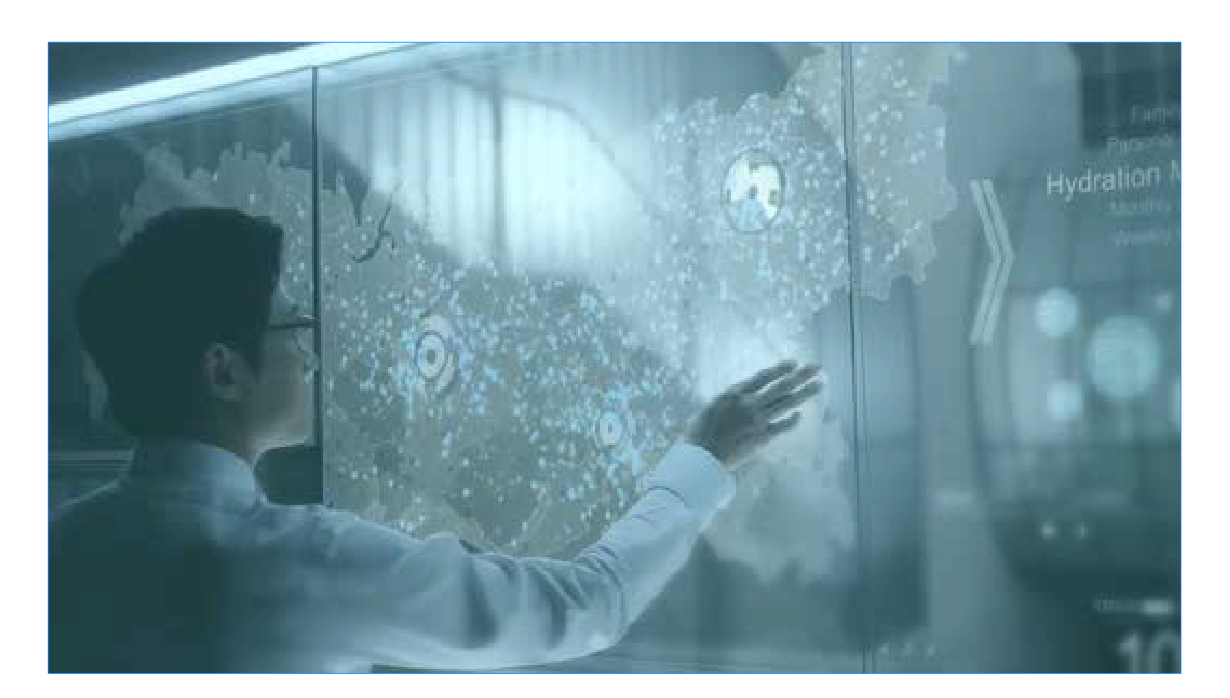
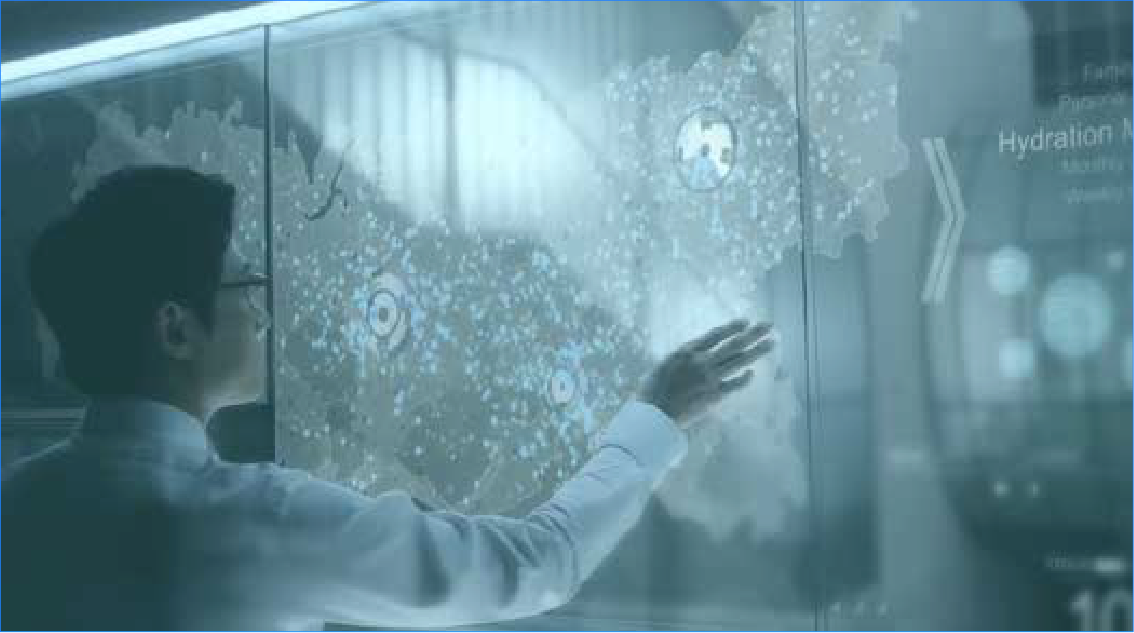
수정

diff --git a/pages/static_page/Responses-to-Climate-Change.vue b/pages/static_page/Responses-to-Climate-Change.vue
@@ -203,19 +203,19 @@
                             </b-tr></b-thead>
                             <b-tbody>
                                 <b-tr>
-                                    <b-td class="text-left">Scope1</b-td><b-td class="text-left" rowspan="4">tCO<sub>2</sub>e</b-td><b-td>630</b-td><b-td>676</b-td><b-td>640</b-td><b-td>672</b-td><b-td>-</b-td>
+                                    <b-td class="text-left">Scope1</b-td><b-td class="text-left" rowspan="4">tCO<sub>2</sub>e</b-td><b-td>630</b-td><b-td>676</b-td><b-td>640</b-td><b-td>710</b-td><b-td>-</b-td>
                                 </b-tr>
                                 <b-tr>
-                                    <b-td class="text-left">Scope2</b-td><b-td>5,162</b-td><b-td>5,349</b-td><b-td>5,224</b-td><b-td>5,485</b-td><b-td>-</b-td>
+                                    <b-td class="text-left">Scope2</b-td><b-td>5,162</b-td><b-td>5,349</b-td><b-td>5,224</b-td><b-td>5,616</b-td><b-td>-</b-td>
                                 </b-tr>
                                 <b-tr>
                                     <b-td class="text-left">Scope3</b-td><b-td>71</b-td><b-td>71</b-td><b-td>70</b-td><b-td>71</b-td><b-td>-</b-td>
                                 </b-tr> 
                                 <b-tr>
-                                    <b-td class="text-left">Total</b-td><b-td>5,863</b-td><b-td>6,096</b-td><b-td>5,935</b-td><b-td>6,157</b-td><b-td>298</b-td>
+                                    <b-td class="text-left">Total</b-td><b-td>5,863</b-td><b-td>6,096</b-td><b-td>5,935</b-td><b-td>6,397</b-td><b-td>2,982</b-td>
                                 </b-tr>
                                 <b-tr>
-                                    <b-td class="text-left">원단위</b-td><b-td class="text-left">tCO<sub>2</sub>e/억원</b-td><b-td>0.253</b-td><b-td>0.254</b-td><b-td>0.234</b-td><b-td>0.243</b-td><b-td>0.007</b-td>
+                                    <b-td class="text-left">원단위</b-td><b-td class="text-left">tCO<sub>2</sub>e/억원</b-td><b-td>0.253</b-td><b-td>0.254</b-td><b-td>0.234</b-td><b-td>0.253</b-td><b-td>0.069</b-td>
                                 </b-tr>                                   
                             </b-tbody> 
                         </b-table-simple> 
@@ -328,19 +328,19 @@
                                     <b-td class="text-left">프로판</b-td><b-td>5,294</b-td><b-td>5,908</b-td><b-td>5,163</b-td><b-td>-</b-td><b-td>-</b-td>
                                 </b-tr>
                                 <b-tr>
-                                    <b-td colspan="2" class="text-left">직접 Total</b-td><b-td>11,014</b-td><b-td>11,801</b-td><b-td>11,062</b-td><b-td>11,615</b-td><b-td>-</b-td>
+                                    <b-td colspan="2" class="text-left">직접 Total</b-td><b-td>11,014</b-td><b-td>11,801</b-td><b-td>11,062</b-td><b-td>12,391</b-td><b-td>-</b-td>
                                 </b-tr>
                                 <b-tr>
                                     <b-td class="text-left">간접</b-td><b-td class="text-left">전력</b-td><b-td>106,275</b-td><b-td>110,142</b-td><b-td>107,564</b-td><b-td>-</b-td><b-td>-</b-td>
                                 </b-tr>
                                 <b-tr>
-                                    <b-td colspan="2" class="text-left">간접 Total</b-td><b-td>106,275</b-td><b-td>110,142</b-td><b-td>107,564</b-td><b-td>-</b-td><b-td>-</b-td>
+                                    <b-td colspan="2" class="text-left">간접 Total</b-td><b-td>106,275</b-td><b-td>110,142</b-td><b-td>107,564</b-td><b-td>115,649</b-td><b-td>-</b-td>
                                 </b-tr>
                                 <b-tr>
-                                    <b-td colspan="2" class="text-left">총 에너지 사용량</b-td><b-td>117,289</b-td><b-td>121,943</b-td><b-td>118,627</b-td><b-td>124,557</b-td><b-td>5,931</b-td>
+                                    <b-td colspan="2" class="text-left">총 에너지 사용량</b-td><b-td>117,289</b-td><b-td>121,943</b-td><b-td>118,627</b-td><b-td>128,040</b-td><b-td>64,020</b-td>
                                 </b-tr>
                                 <b-tr>
-                                    <b-td colspan="2" class="text-left">총 에너지 원단위 사용량</b-td><b-td class="text-left">GJ/매출액</b-td><b-td>5.055</b-td><b-td>5.091</b-td><b-td>4.687</b-td><b-td>4,921</b-td><b-td>0.137</b-td>
+                                    <b-td colspan="2" class="text-left">총 에너지 원단위 사용량</b-td><b-td class="text-left">GJ/매출액</b-td><b-td>5.055</b-td><b-td>5.091</b-td><b-td>4.687</b-td><b-td>5.059</b-td><b-td>1.479</b-td>
                                 </b-tr>
                             </b-tbody>
                         </b-table-simple>

diff --git a/components/header.vue b/components/header.vue
@@ -36,7 +36,7 @@
         <div id="global-nav" :class="[show_sub_menu==true? 'lv2-show':'lv2-hide','d-none d-lg-block w-100 bg-gray6 position-absolute shadow-sm']">
             <b-container>
             <b-row no-gutters class="py-4 w-100 d-flex justify-contents-center" >
-                <b-col class="col-12 col-md-4 col-lg-4 pl-0 pr-md-3 pr-lg-3 f-90 gray3 fw-300" :class="menu_changed==true? 'lazy-loader':'menu-fadeout'" :key="menu_change_key">{{ menu_text }}</b-col>
+                <b-col class="col-12 col-md-4 col-lg-4 pl-0 pr-md-3 pr-lg-3 f-90 gray3 fw-300 letter-narrow" :class="menu_changed==true? 'lazy-loader':'menu-fadeout'" :key="menu_change_key">{{ menu_text }}</b-col>
                 <b-col class="col-12 col-md-8 col-lg-8 pl-2 pl-md-2 pl-lg-3 d-flex justify-content-end flex-wrap">
                     <div @click="show_sub_menu=false" v-for="level2_item in sub_menu_item" :key="level2_item.id" class="position-relative global-nav-temp">
                         <nuxt-link :to="`${level2_item.link}`" @click="show_sub_menu=false">
@@ -273,8 +273,8 @@ export default {
     padding-top: 0.2rem;
     // margin-right: 2.2em;
     // margin-bottom: 1.5em;
-    border-top: 0.75px solid $gray3;
-    transition: margin-top 0.4s ease-out;
+    border-top: 0.75px solid $gray4;
+    transition: all 0.4s ease-out;
 }
 .lv2-text {
     color: $gray3;
@@ -282,14 +282,33 @@ export default {
     font-weight: 300;
     line-height: 1.5;
 }
-.global-nav-2:hover {
-    border-top: 0.75px solid white;
-    margin-top: -0.3em;
+// .global-nav-2:hover {
+//     border-top: 0.75px solid white;
+// }
+.global-nav-2::before{
+    content:"";
+    width: 0;
+    height: 1px;
+    position: absolute;
+    transition: all 0.2s linear;
+    background: #fff;
+    left:0;
+    top:0;
 }
-.global-nav-2:hover > .lv2-text{
+.global-nav-2:hover::before {
+    left:0;
+    top:0;
+    width: 100%;
+}
+
+// .global-nav-2:hover::before {
+//   border-top-color: #0eb7da;
+//   transition: width 0.25s ease-out
+// }
+
+.lv2-text:hover{
     color: white;
     text-decoration: none;
-    font-weight: 400;
 }
 
 

diff --git a/assets/css/master.scss b/assets/css/master.scss
@@ -570,7 +570,7 @@
     top:0;
 }
 .i1_bg {
-    background-image: url( "/images/i1_bg@2x.png" );
+    background-image: url( "/images/i1_bg.jpg" );
 }
 .i2_bg {
     background-image: url( "/images/i2_bg.png" );
